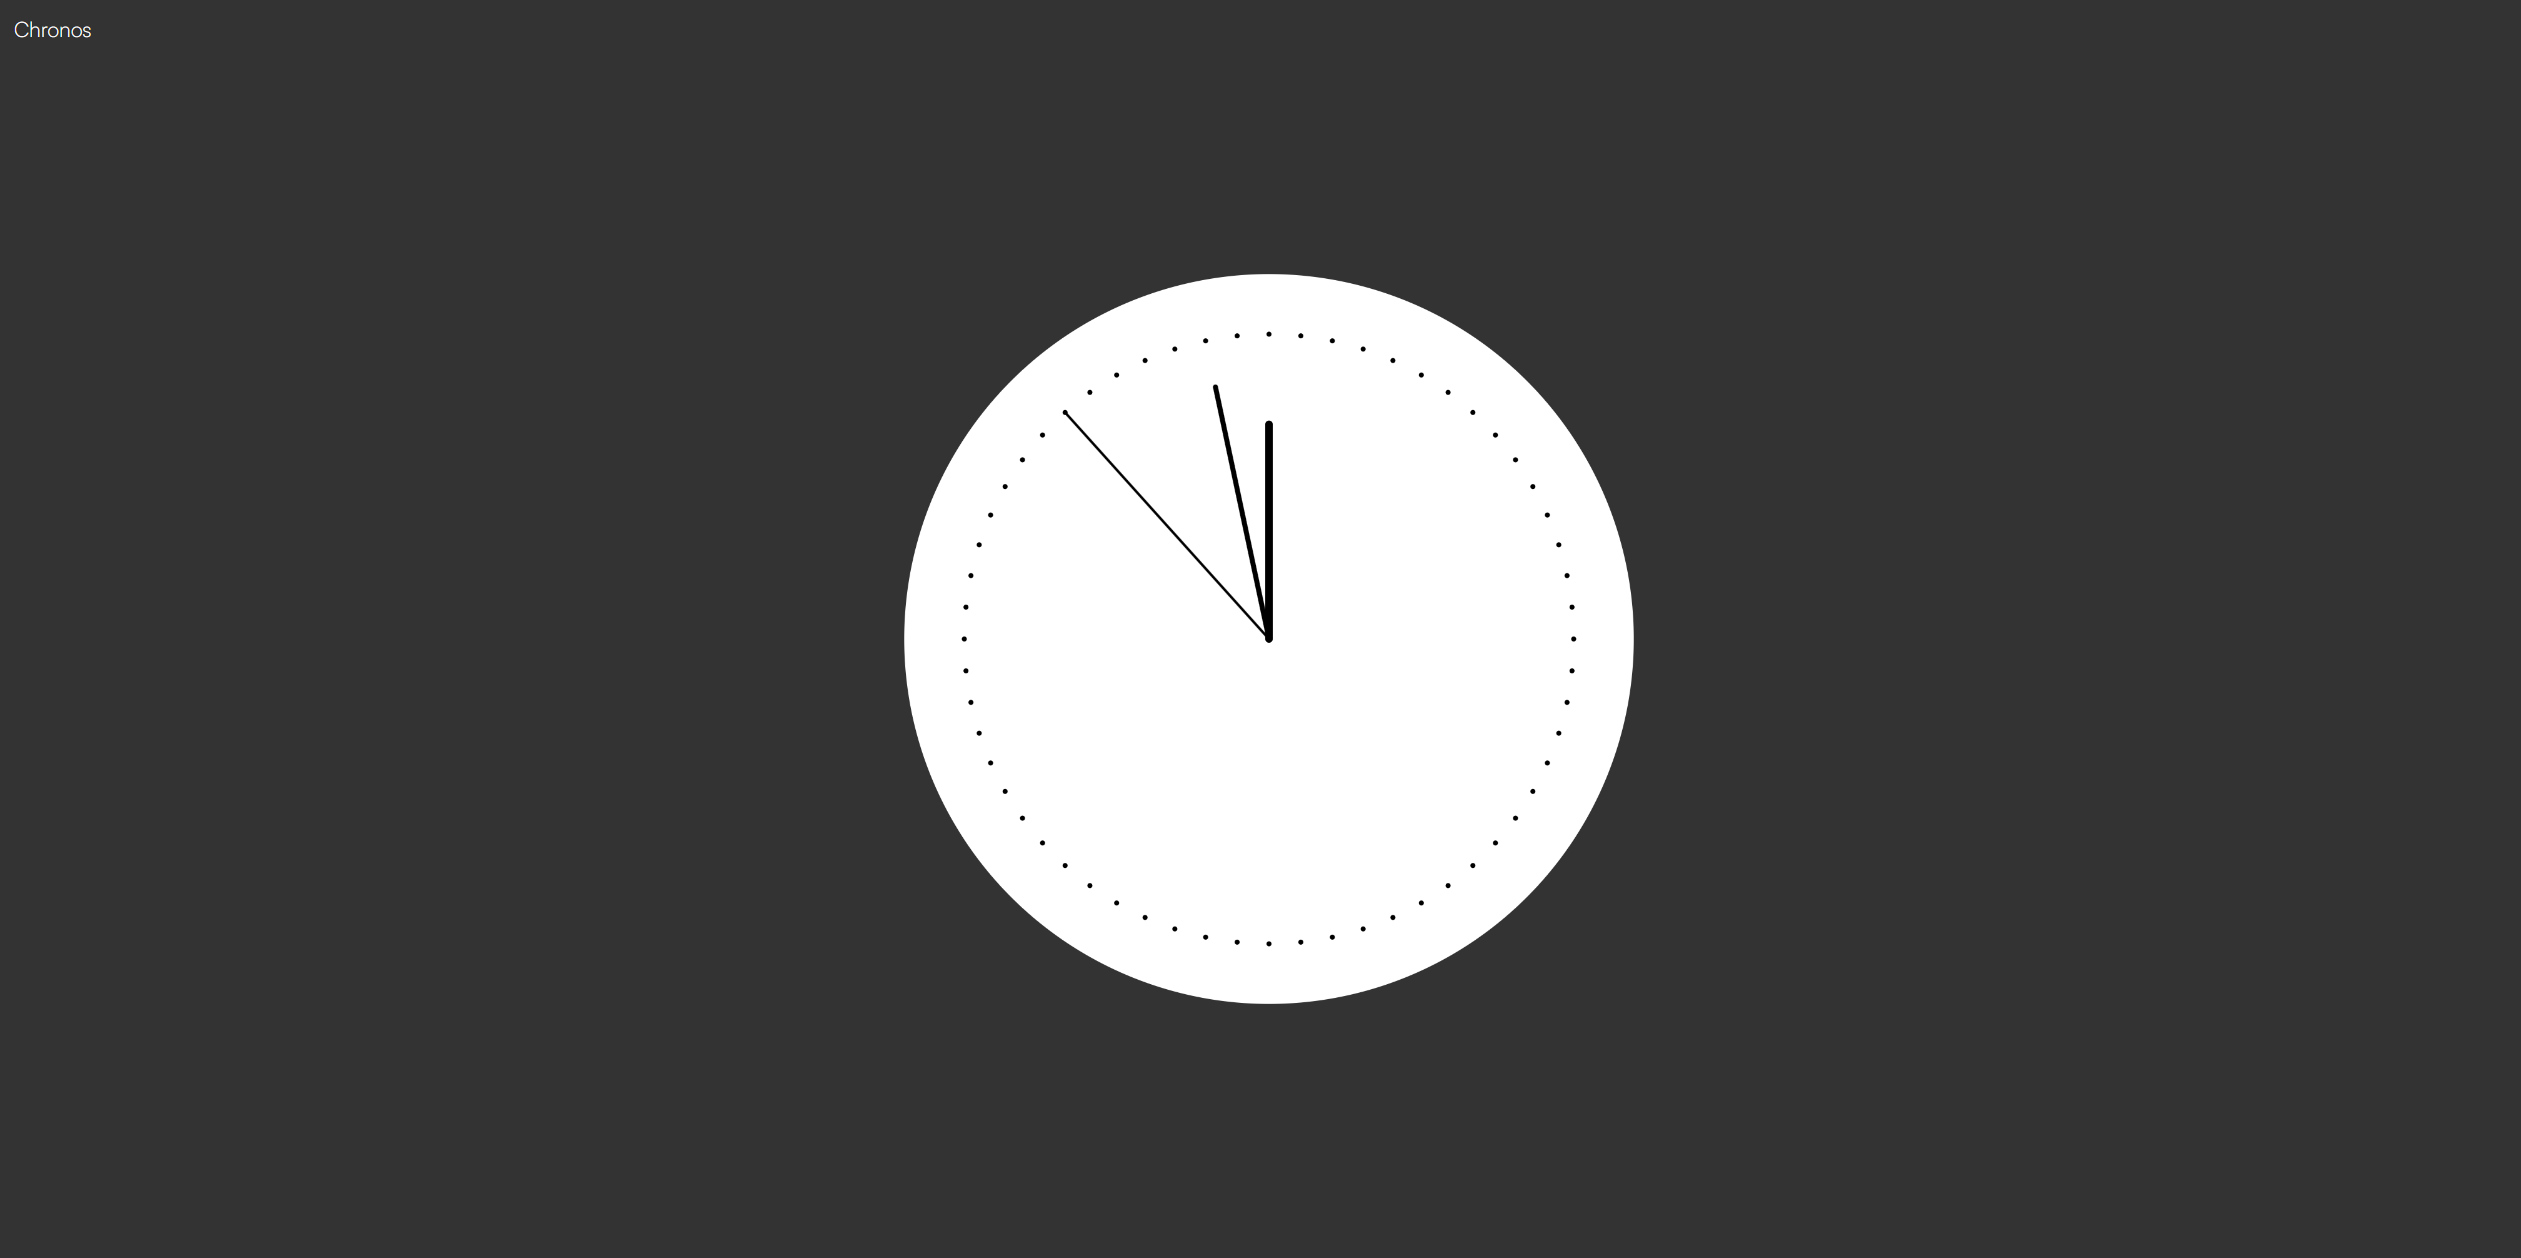
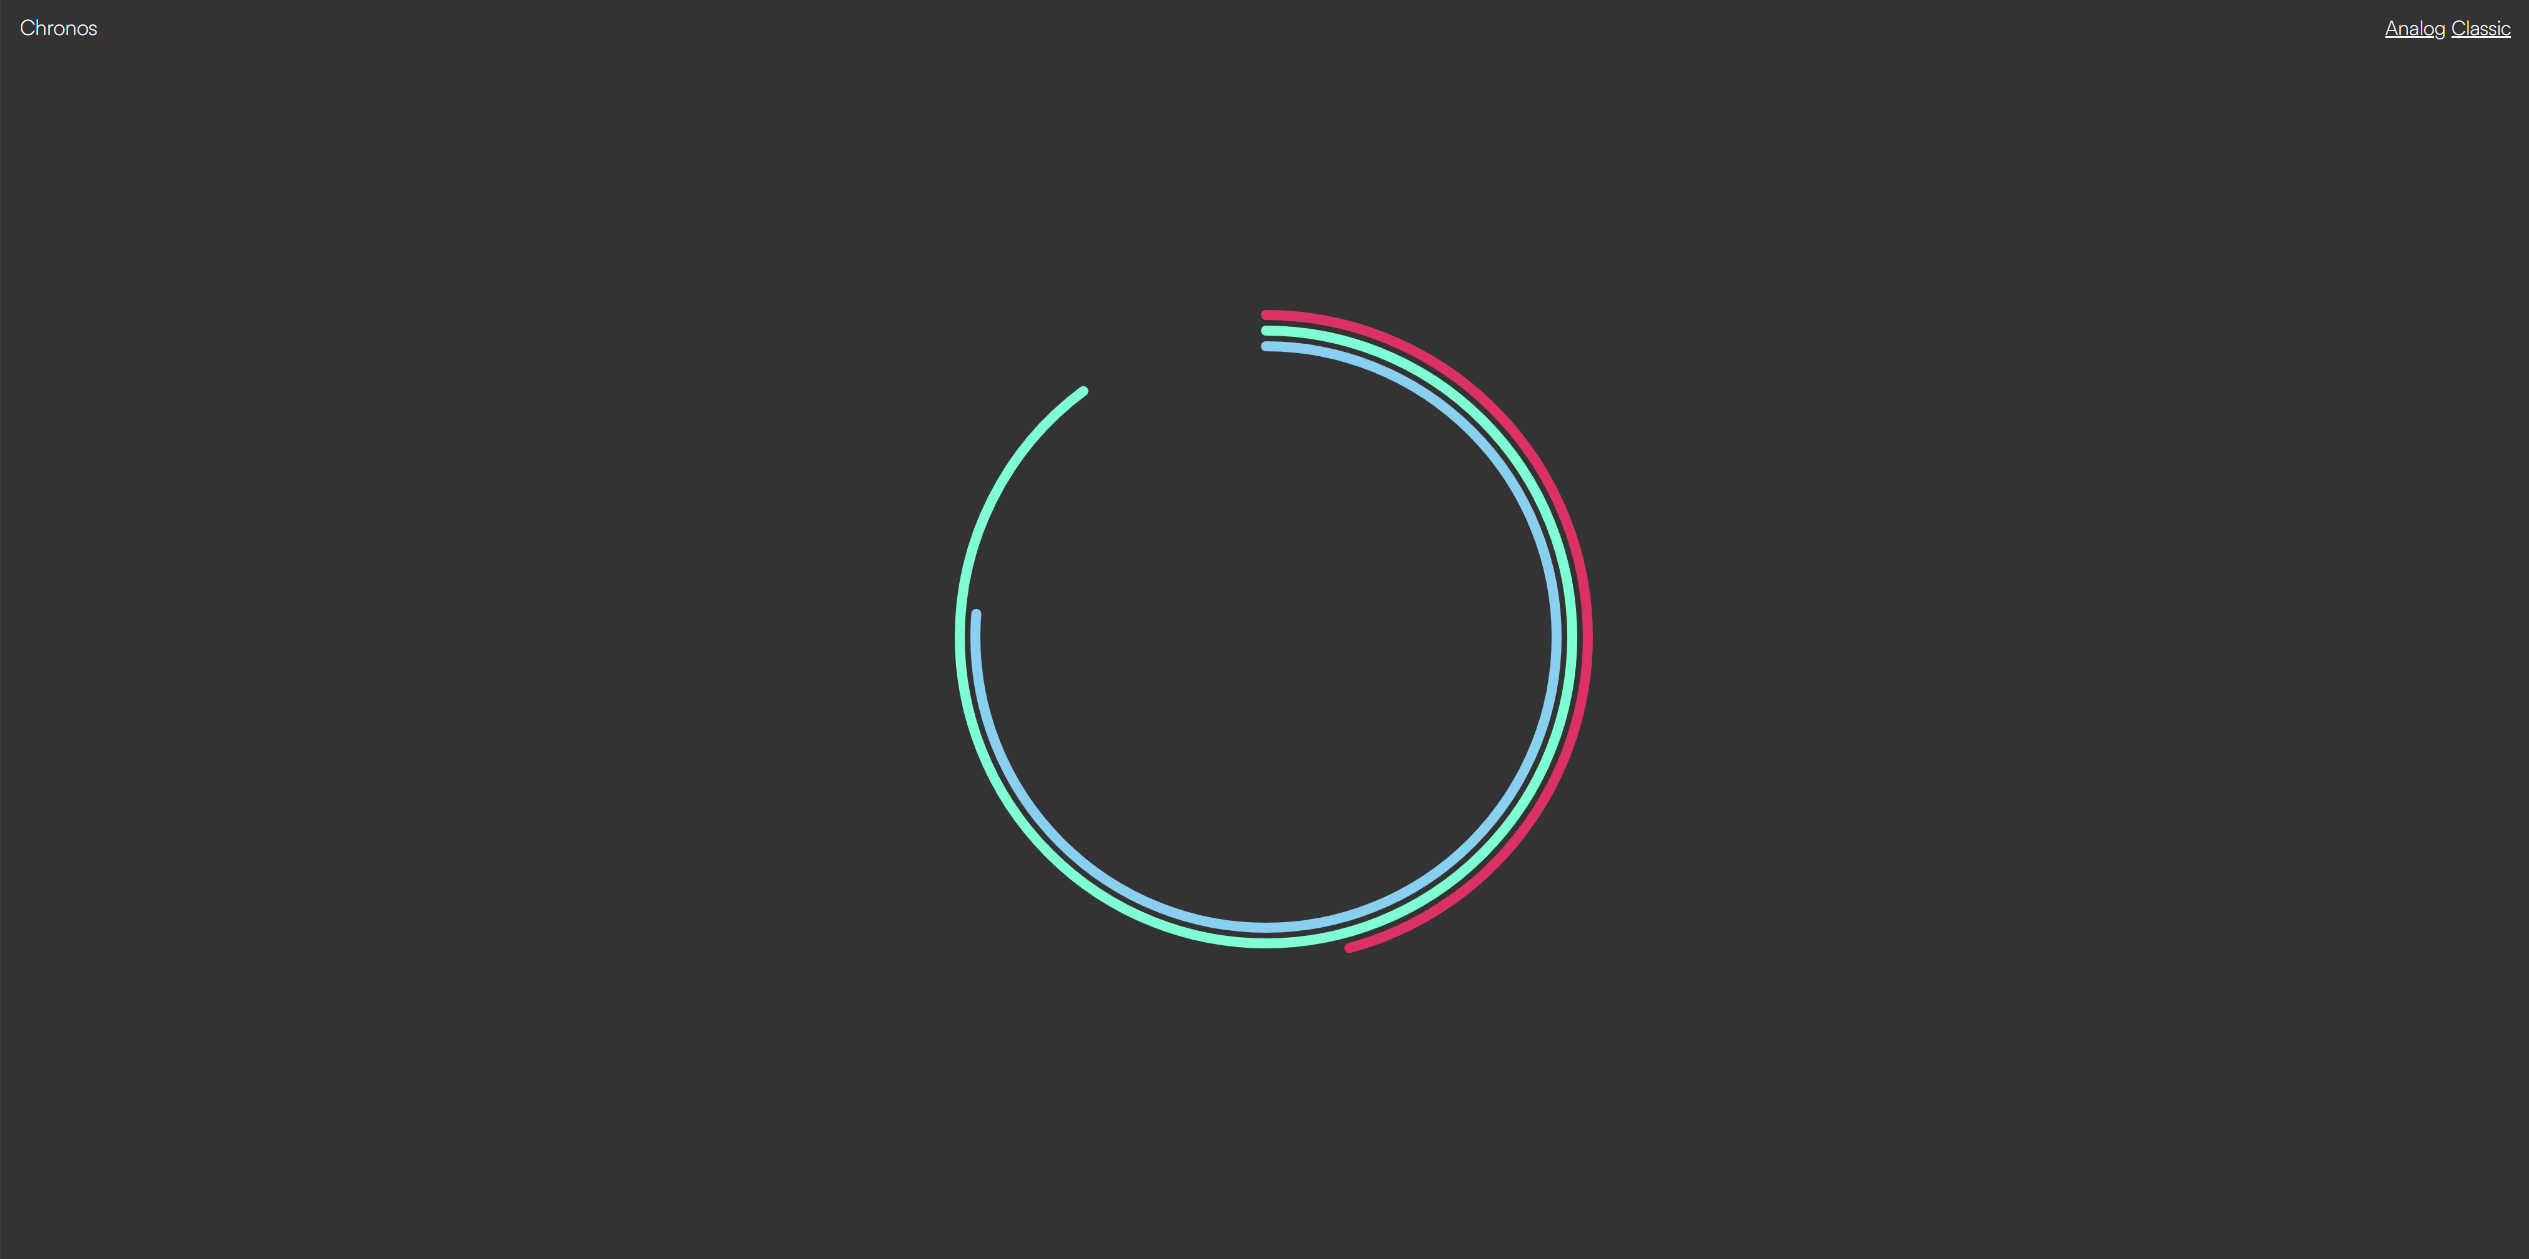
Fixed Typos in resume terminal style and chronos picture

Changed region(s): [[0.3403, 0.217, 0.6497, 0.806], [0.9282, 0.0, 0.9901, 0.031], [0.0, 0.0, 0.0309, 0.031]]

diff --git a/resume.html b/resume.html
@@ -11,12 +11,12 @@
   font-family: "Courier New", monospace;
   color: #00ff00;
   padding: 20px;
-  min-height: 200vh; /* forces scroll for demo */
+  min-height: 200vh;
   text-shadow:
     0 0 2px #00ff66,
     0 0 5px #00ff66,
     0 0 10px #00cc55;
-    filter: blur(0.2px);
+    filter: blur(0.1px);
   
 }
 
@@ -57,6 +57,12 @@ table tr:hover {
   background-color: rgba(0, 255, 102, 0.2);
 }
 
+a {
+  color: #00ff66;
+  text-decoration: underline;
+  text-shadow: none;
+}
+  </style>
 </style>
 </head>
 <body id="terminal">
@@ -66,11 +72,12 @@ table tr:hover {
 
   <main>
     <h2>Software Engineer</h2>
-    <p>Hi, Im Alex. A software engineer with a passion for creating innovative solutions and delivering high-quality software. Experienced in full-stack development, cloud computing, bring with 12 years of experience.</p>
+    <p>Hi, Im Alex. A software engineer with a passion for creating innovative solutions and delivering high-quality software. 
+Experienced in full-stack development, cloud computing, bring with 12 years of experience.</p>
 
     <h3>Technical Skills</h3>
     <ul>
-      <li>.NET 1.0 -> 10</li>
+      <li>.NET Core 1.0 -> .NET 10</li>
       <li>ASP.NET Core</li>
       <li>Blazor/Razor</li>
       <li>WinUI 3 App SDK</li>
@@ -86,8 +93,8 @@ table tr:hover {
 
     <h3>Soft Skills</h3>
     <ul>
-      <li>Leadership</li>
-      <li>Software Management</li>
+      <li>Leadership to bring the best out of people.</li>
+      <li>Software Management to meet deliverables.</li>
       <li>Able to communicate effectively.</li>
       <li>Can work independently.</li>
       <li>Able to determine requirements from stakeholders to team.</li>
@@ -97,7 +104,10 @@ table tr:hover {
     </ul>
 
     <h3>Experience</h3>
-    <a href="https://linkedin.com/alexsmance">LinkedIn</a>
+    <a href="https://linkedin.com/alexsmance" 
+       style="color: #00ff66; text-decoration: underline; text-shadow: none;">
+       LinkedIn
+    </a>
     <table>
       <tr>
         <td>Alex Mance</td>
@@ -113,31 +123,25 @@ table tr:hover {
         <td>Hentamine</td>
         <td>Owner, Software Engineer</td>
         <td>2015-2021</td>
-        
-      </tr>
-      <tr>
-        <td>E&E Lighting</td>
-        <td>Software Engineer</td>
-        <td>2017-2018</td>
-      </tr>
+      </tr>      
       <tr>
         <td>Subtemple</td>
-        <td>Software Developer</td>
+        <td>Software Development</td>
         <td>2018</td>
       </tr>
       <tr>
         <td>Callum Edwards Audio</td>
-        <td>Software Engine</td>
+        <td>Software Development</td>
         <td>2018</td>
       </tr>
       <tr>
         <td>E&E Lighting</td>
-        <td>Software Engineer</td>
+        <td>Software Development</td>
         <td>2017-2018</td>
       </tr>
       <tr>
         <td>Carrolls Coatings</td>
-        <td>Software Engineer</td>
+        <td>Software Development</td>
         <td>2016-2017</td>
       </tr>
     </table>
@@ -159,18 +163,25 @@ table tr:hover {
     </table>
 
     <h3>Projects</h3>
-    <a href="https://github.com/alexsmance">Github</a>
+    <a href="https://github.com/alexsmance" 
+       style="color: #00ff66; text-decoration: underline; text-shadow: none;">
+       Github
+    </a>    
     <table>
       <tr>
-        <td>Terra</td>
+        <td><a href="https://asmance.com" target="_blank">Personal Website</a></td>
+        <td>Personal website showcasing my work and projects.</td>
+      </tr>
+      <tr>
+        <td><a href="https://terra.asmance.com" target="_blank">Terra</a></td>
         <td>A modern CSS framework for building responsive web applications. With a minimal api, zero dependciese and low cermony.</td>
       </tr>
       <tr>
-        <td>Starfield</td>
+        <td><a href="https://starfield.asmance.com" target="_blank">Starfield</a></td>
         <td>A space-themed website with interactive controls to adjust the speed.</td>
       </tr>
       <tr>
-        <td>Chronos</td>
+        <td><a href="https://chronos.asmance.com" target="_blank">Chronos</a></td>
         <td>A collection of clocks and time visualed in p5.js.</td>
       </tr>
     </table>
